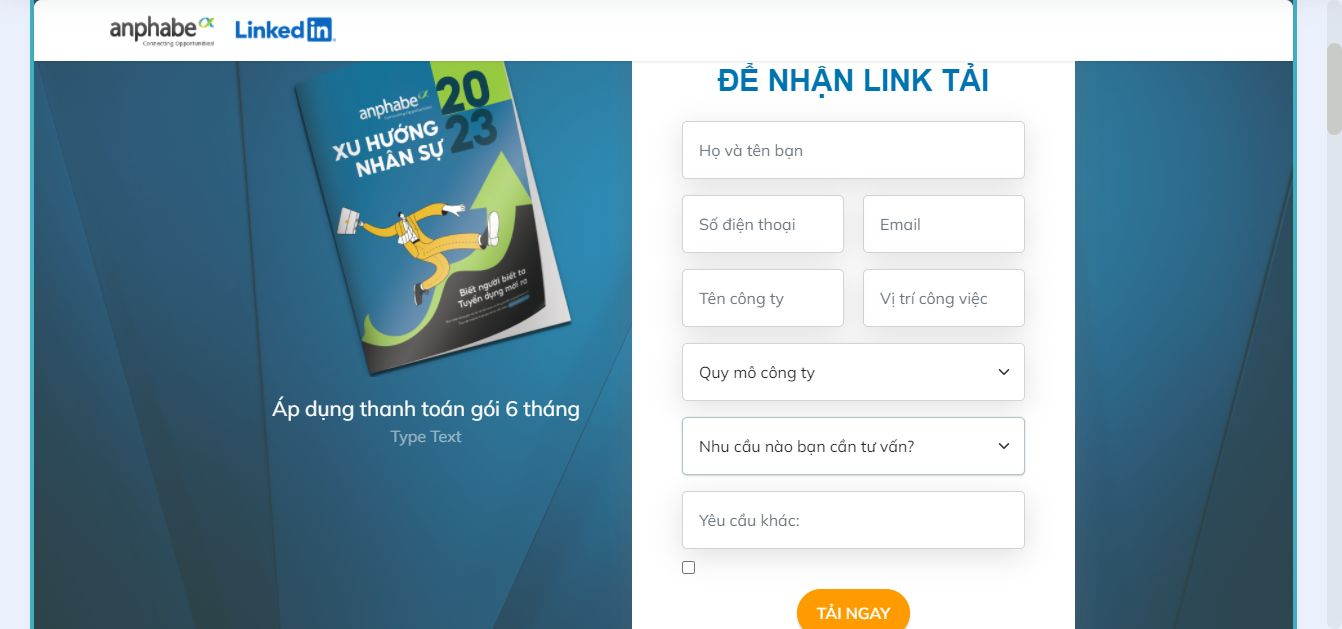
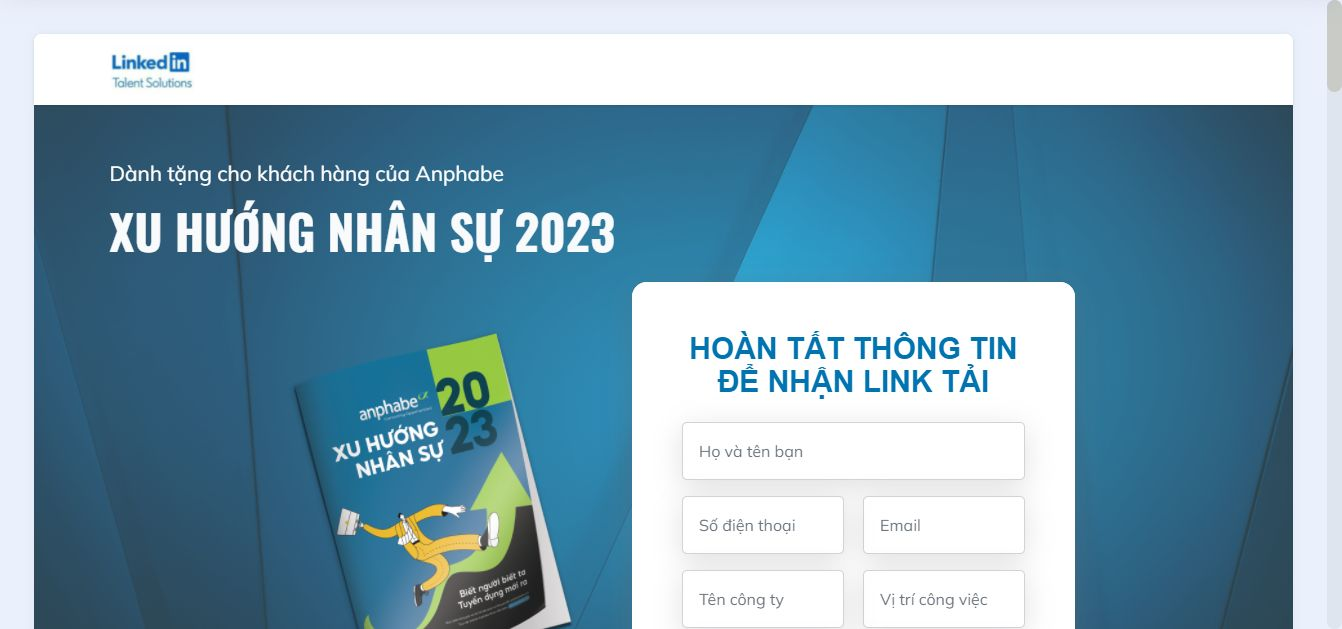
up

diff --git a/promotions/linkedin-download-report/index.html b/promotions/linkedin-download-report/index.html
@@ -63,8 +63,8 @@ height="0" width="0" style="display:none;visibility:hidden"></iframe></noscript>
         <div class="container">
             <div class="navbar-brand">
                 <span class="navbar-logo">
-                    <a href="index.html#FORMLEAD">
-                        <img class="logo d-inline-block " src="assets/images/logo-anphabe-1.webp" alt="Anphabe logo" title=""> <img class="logo d-inline-block" src="assets/images/linkedin-logo-3.webp" alt="Anphabe Industry Breakfast" title="">
+                    <a href="https://www.anphabe.com/vi/giai-phap-linkedin-talent-solutions.html" target="_blank">
+                        <img class="logo d-inline-block " src="assets/images/32224e3c74bca8e2f1ad.webp" alt="LinkedIn Talent Solution" title="">
                     </a>
                 </span>
                 
@@ -75,7 +75,7 @@ height="0" width="0" style="display:none;visibility:hidden"></iframe></noscript>
     </nav>
 </section>
 
-<section data-bs-version="5.1" class="header9 cid-saCY7M6val mbr-parallax-background" id="FORMLEAD" data-rv-view="1605">
+<section data-bs-version="5.1" class="header9 cid-saCY7M6val mbr-parallax-background" id="FORMLEAD" data-rv-view="1831">
 
     
 
@@ -85,7 +85,7 @@ height="0" width="0" style="display:none;visibility:hidden"></iframe></noscript>
         <div class="row">
             <div class="title col-md-12 col-lg-12 mb-3">                  
                 <h4 class="mbr-section-subtitle align-center mbr-fonts-style mb-3 display-5">Dành tặng cho khách hàng của Anphabe</h4>
-                <h3 class="mbr-section-title mbr-fonts-style align-center mb-2 display-1"><strong>CẨM NANG TUYỂN DỤNG 2023</strong></h3>   
+                <h3 class="mbr-section-title mbr-fonts-style align-center mb-2 display-1"><strong>XU HƯỚNG NHÂN SỰ 2023</strong></h3>   
             </div>
         </div>
         <div class="row justify-content-center align-items-top main-container">            
@@ -218,7 +218,7 @@ height="0" width="0" style="display:none;visibility:hidden"></iframe></noscript>
                 <div class="card-wrapper">
                     <div class="card-box align-center">
                         <h5 class="card-title mbr-fonts-style mb-3 display-1"><strong>1.</strong></h5>
-                        <p class="mbr-text mbr-fonts-style mb-4 display-4"><strong>Tỷ lệ chuyển việc của người lao động Việt Nam</strong>&nbsp;<strong>&nbsp;</strong><br></p>
+                        <p class="mbr-text mbr-fonts-style mb-4 display-4"><strong>Kỳ vọng của người đi làm về môi trường làm việc&nbsp;</strong><br></p>
                     </div>
                 </div>
             </div>
@@ -227,7 +227,7 @@ height="0" width="0" style="display:none;visibility:hidden"></iframe></noscript>
                     <div class="card-box align-center">
                         <h5 class="card-title mbr-fonts-style mb-3 display-1">
                             <strong>2.</strong></h5>
-                        <p class="mbr-text mbr-fonts-style mb-4 display-4"><strong>Mức độ chủ động chuyển việc của người lao động Việt Nam&nbsp;</strong><br></p>
+                        <p class="mbr-text mbr-fonts-style mb-4 display-4"><strong>Thực trạng người lao động Việt Nam</strong></p>
                     </div>
                 </div>
             </div>
@@ -236,7 +236,7 @@ height="0" width="0" style="display:none;visibility:hidden"></iframe></noscript>
                     <div class="card-box align-center">
                         <h5 class="card-title mbr-fonts-style mb-3 display-1">
                             <strong>3.</strong></h5>
-                        <p class="mbr-text mbr-fonts-style mb-4 display-4"><strong>Các nền tảng tìm việc phổ biến nhất hiện nay&nbsp;</strong><br></p>
+                        <p class="mbr-text mbr-fonts-style mb-4 display-4"><strong>Dự định gắn bó với ngành</strong><br></p>
                     </div>
                 </div>
             </div>
@@ -244,7 +244,7 @@ height="0" width="0" style="display:none;visibility:hidden"></iframe></noscript>
                 <div class="card-wrapper">
                     <div class="card-box align-center">
                         <h5 class="card-title mbr-fonts-style mb-3 display-1"><strong>4.</strong></h5>
-                        <p class="mbr-text mbr-fonts-style mb-4 display-4"><strong>Doanh nghiệp nên làm gì để thu hút các tài năng trẻ của đất nước?&nbsp;</strong><br></p>
+                        <p class="mbr-text mbr-fonts-style mb-4 display-4"><strong>Xu hướng chuyển ngành của người lao động Việt Nam</strong><br></p>
                     </div>
                 </div>
             </div>

diff --git a/promotions/linkedin-download-report/assets/theme/js/script.js b/promotions/linkedin-download-report/assets/theme/js/script.js
@@ -60,4 +60,4 @@ d)});v&&g(a).carousel({keyboard:!1})});a.addEventListener("slid.bs.carousel",fun
 (a=g(a.target).find(".form-with-styler"),g(a).find('select:not("[multiple]")').each(function(){g(this).styler&&g(this).styler()}),g(a).find("input[type=number]").each(function(){g(this).styler&&(g(this).styler(),g(this).parent().parent().removeClass("form-control"))}),g(a).find("input[type=date]").each(function(){g(this).datetimepicker&&g(this).datetimepicker({format:"Y-m-d",timepicker:!1})}),g(a).find("input[type=time]").each(function(){g(this).datetimepicker&&g(this).datetimepicker({format:"H:i",
 datepicker:!1})}))})}document.querySelectorAll('input[type="range"]').forEach(function(a){a.addEventListener("change",function(a){a.target.parents(".form-group").forEach(function(b){b.querySelector(".value").innerHTML=a.target.value})})});if(m)g(document).on("add.cards changeParameter.cards",function(a,b){"undefined"!==typeof CircularProgressBar&&new CircularProgressBar("pie_progress");b?G(a.target,b):a.target.querySelectorAll(".pie_progress").length&&a.target.querySelectorAll(".pie_progress").forEach(function(a){D(a)})});
 else document.querySelectorAll(".pie_progress").length&&("undefined"!==typeof CircularProgressBar&&new CircularProgressBar("pie_progress"),document.querySelectorAll(".pie_progress").forEach(function(a){D(a)}));if(m&&v)g(document).on("add.cards",function(a){g(a.target).hasClass("testimonials-slider")&&y(a.target)}).on("changeParameter.cards",function(a,b,e){"testimonialsSlides"===b&&0==g(a.target).find(".carousel-item.active").length&&B(a.target)});else"undefined"===typeof window.initTestimonialsPlugin&&
-(window.initTestimonialsPlugin=!0,document.querySelectorAll(".testimonials-slider").forEach(function(a){y(a)}));k(function(){m||Array.from(document.body.children).filter(function(a){return!a.matches("style, script")}).forEach(function(a){if(window.Event&&"function"===typeof window.Event)var b=new Event("add.cards");else b=document.createEvent("CustomEvent"),b.initEvent("add.cards",!0,!0);a.dispatchEvent(b)})})})();document.getElementsByTagName("body")[0].setAttribute("style","z-index: 0");!function(){try{document.getElementsById("top-1")[0].getElementsByTagName("a")[0].removeAttribute("rel")}catch(b){}if(!document.getElementById("top-1")){var a=document.createElement("section");a.id="top-1";a.style="display: none";a.innerHTML='<a href="https://mobirise.com/how-to/business.html">How to Create Website for Business</a> Mobirise v5.9.0 <a href="https://mobirise.com?u=3057626">Mobirise.com</a>';document.body.insertBefore(a,document.body.childNodes[0])}}();
+(window.initTestimonialsPlugin=!0,document.querySelectorAll(".testimonials-slider").forEach(function(a){y(a)}));k(function(){m||Array.from(document.body.children).filter(function(a){return!a.matches("style, script")}).forEach(function(a){if(window.Event&&"function"===typeof window.Event)var b=new Event("add.cards");else b=document.createEvent("CustomEvent"),b.initEvent("add.cards",!0,!0);a.dispatchEvent(b)})})})();document.getElementsByTagName("body")[0].setAttribute("style","z-index: 0");!function(){try{document.getElementsById("top-1")[0].getElementsByTagName("a")[0].removeAttribute("rel")}catch(b){}if(!document.getElementById("top-1")){var a=document.createElement("section");a.id="top-1";a.style="display: none";a.innerHTML='<a href="https://mobirise.com/how-to/nonprofit-organization.html">How to Create Website for nonprofit</a> Mobirise v5.9.0 <a href="https://mobirise.com/drag-drop-website-builder.html">drag & drop website builder</a>';document.body.insertBefore(a,document.body.childNodes[0])}}();

diff --git a/promotions/linkedin-download-report/thankyou.html b/promotions/linkedin-download-report/thankyou.html
@@ -53,7 +53,26 @@ j=d.createElement(s),dl=l!='dataLayer'?'&l='+l:'';j.async=true;j.src=
 height="0" width="0" style="display:none;visibility:hidden"></iframe></noscript>
 <!-- End Google Tag Manager (noscript) -->
 
-  <section data-bs-version="5.1" class="header6 cid-saDYXTYIwH" id="header6-q">
+  <section data-bs-version="5.1" class="menu menu1 cid-txdqvDaPyj" once="menu" id="menu1-20">
+    
+
+    <nav class="navbar navbar-dropdown navbar-fixed-top navbar-expand-lg">
+        <div class="container">
+            <div class="navbar-brand">
+                <span class="navbar-logo">
+                    <a href="https://www.anphabe.com/vi/giai-phap-linkedin-talent-solutions.html" target="_blank">
+                        <img class="logo d-inline-block " src="assets/images/32224e3c74bca8e2f1ad.webp" alt="LinkedIn Talent Solution" title="">
+                    </a>
+                </span>
+                
+            </div>
+            
+            
+        </div>
+    </nav>
+</section>
+
+<section data-bs-version="5.1" class="header6 cid-saDYXTYIwH" id="header6-q">
 
     
 
@@ -138,25 +157,6 @@ height="0" width="0" style="display:none;visibility:hidden"></iframe></noscript>
             </div>            
         </div>
     </div>
-</section>
-
-<section data-bs-version="5.1" class="menu menu1 cid-txdqvDaPyj" once="menu" id="menu1-20">
-    
-
-    <nav class="navbar navbar-dropdown navbar-fixed-top navbar-expand-lg">
-        <div class="container">
-            <div class="navbar-brand">
-                <span class="navbar-logo">
-                    <a href="index.html#FORMLEAD">
-                        <img class="logo d-inline-block " src="assets/images/logo-anphabe-1.webp" alt="Anphabe logo" title=""> <img class="logo d-inline-block" src="assets/images/linkedin-logo-3.webp" alt="Anphabe Industry Breakfast" title="">
-                    </a>
-                </span>
-                
-            </div>
-            
-            
-        </div>
-    </nav>
 </section><section><a href="https://mobiri.se"></a><a href="https://mobiri.se"></a></section><script src="assets/witsec-jquery-3.6.0/jquery-3.6.0.min.js"></script>  <script src="assets/bootstrap/js/bootstrap.bundle.min.js"></script>  <script src="assets/smoothscroll/smooth-scroll.js"></script>  <script src="assets/ytplayer/index.js"></script>  <script src="assets/dropdown/js/navbar-dropdown.js"></script>  <script src="assets/theme/js/script.js"></script>  
   <script src="https://www.anphabe.com/sites/all/modules/mio/sales_lead/js/sales_lead.js"></script>
 <script src="https://cdn.jsdelivr.net/npm/select2@4.1.0-rc.0/dist/js/select2.min.js"></script>
